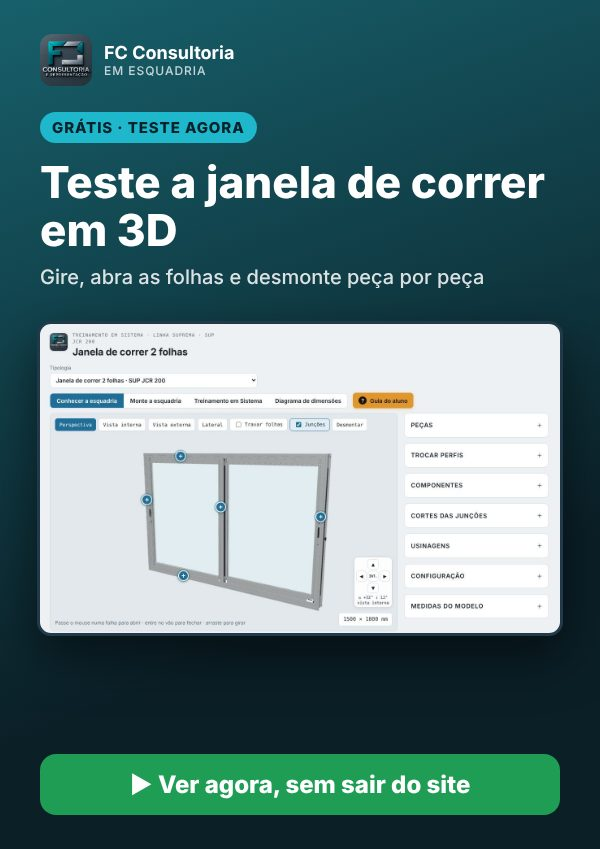
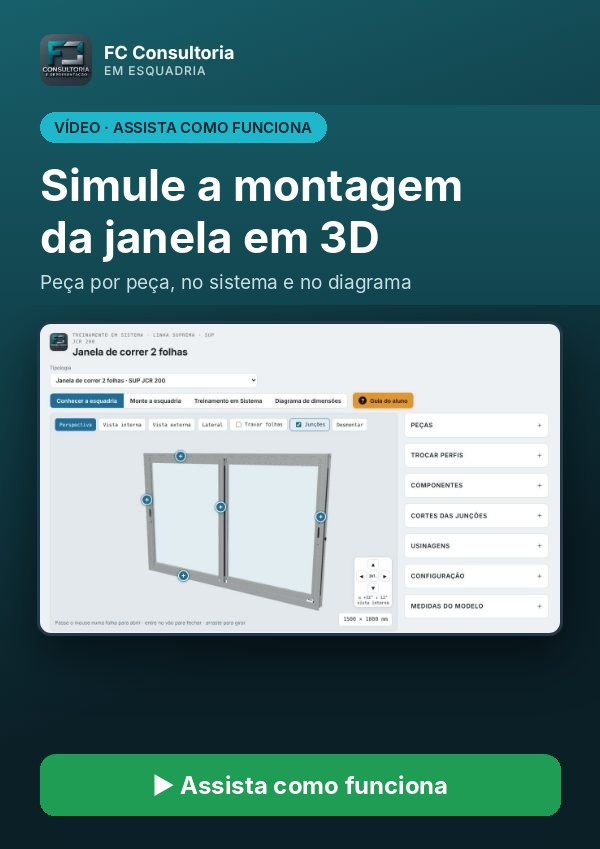
Site: revisao geral (sem nomes de sistemas, sem teste aberto, sem duplicados)
Claude-Session: https://claude.ai/code/session_01BG5fcFynEoiLLZNdsZN5iV

Changed region(s): [[0.06, 0.1225, 0.9, 0.3675], [0.21, 0.8881, 0.78, 0.9494], [0.9, 0.9494, 0.93, 0.98]]

diff --git a/index.html b/index.html
@@ -146,7 +146,7 @@ footer{padding:28px 0 90px;color:var(--tm);font-size:13.5px}footer .w{display:fl
  <div>
   <span class="eb">Implantação de preços em sistemas de esquadrias · Sinop-MT</span>
   <h1>Com dificuldade para alimentar o sistema? <em>Chame a FC</em>.</h1>
-  <p class="lead">A FC Consultoria é especializada em <b>implantar os preços de custo nos sistemas de cálculo de esquadrias disponíveis no mercado</b>, como WVetro e CEM. Cadastramos perfis, componentes e vidros, ajustamos a formação do preço de venda e orientamos a sua equipe, on-line ou presencial.</p>
+  <p class="lead">A FC Consultoria é especializada em <b>implantar os preços de custo nos sistemas de cálculo de esquadrias disponíveis no mercado</b>. Cadastramos perfis, componentes e vidros, ajustamos a formação do preço de venda e orientamos a sua equipe, on-line ou presencial.</p>
   <div class="cta"><a class="btn wz" href="https://wa.me/5566999867984?text=Ol%C3%A1%20Fernando%2C%20estou%20com%20dificuldade%20para%20alimentar%20o%20sistema%20e%20quero%20ajuda%20na%20implanta%C3%A7%C3%A3o%20dos%20pre%C3%A7os." target="_blank" rel="noopener">💬 Quero ajuda na implantação</a><a class="btn cy" href="#demo">🧊 Simule a montagem da janela na plataforma 3D</a></div>
   <p style="margin:14px 0 0;font-size:13px;line-height:1.5;color:#8fa6b2;max-width:520px">Os resultados dependem da atualização dos preços dos fornecedores e do uso do sistema pela equipe.</p>
  </div>
@@ -212,14 +212,14 @@ footer{padding:28px 0 90px;color:var(--tm);font-size:13.5px}footer .w{display:fl
    <li><i>🌬</i><div><b>Diagrama de dimensões</b><br><span>Pressão de vento e tamanho máximo de cada mão de amigo.</span></div></li>
    <li><i>📈</i><div><b>Relatório para o gestor</b><br><span>Uso, acertos e pontos a melhorar de cada colaborador.</span></div></li>
   </ul>
-  <div class="trb" style="align-items:center"><p style="margin:0;font:600 17px var(--f-d);width:100%">Quer conhecer por dentro? Peça um acesso, nem que seja só para conhecer. A FC libera e te explica como usar.</p><a class="btn cy" href="#" onclick="if(window.FCRC){event.preventDefault();FCRC.abrir('Olá! Quero um acesso ao FC Mostruário 3D para conhecer. Minha empresa e cidade: ');}else{this.href='https://wa.me/5566999867984';this.target='_blank';}">💬 Pedir acesso para conhecer</a><a class="btn gh" href="https://wa.me/5566999867984?text=Ol%C3%A1%20Fernando%2C%20quero%20um%20acesso%20ao%20FC%20Mostru%C3%A1rio%203D%20para%20conhecer." target="_blank" rel="noopener">WhatsApp (66) 9 9986-7984</a></div></div>
+</div>
   <div class="shots"><img class="s1" src="img/02-conhecer.jpg" alt="Tela do Mostruário 3D: janela de correr em 3D" loading="lazy"><img class="s2" src="img/14-diagrama.jpg" alt="Diagrama de dimensões com o vento" loading="lazy"></div>
  </div>
  <div class="demo" id="demo">
   <div class="dhd"><div><span class="chip">VÍDEO</span><h3>Assista como funciona: janela de correr 2 folhas em 3D</h3><p>Veja a montagem peça por peça, o lançamento do pedido no sistema e o diagrama de dimensões. Gostou? Entre em contato.</p></div></div>
   <div class="vtabs" role="tablist"><button type="button" class="on" data-v="tut_monte">🧩 Montagem peça por peça</button><button type="button" data-v="tut_sistema">💻 Lançamento no sistema</button><button type="button" data-v="tut_diagrama">📐 Diagrama de dimensões</button></div>
   <div class="dbox" id="dbox"><video id="dvid" src="vid/tut_monte.mp4" poster="img/02-conhecer.jpg" controls playsinline muted preload="none"></video><button type="button" id="dplay">▶ Assista como funciona</button></div>
-  <div class="vcta"><b>Gostou? Entre em contato e peça um acesso para conhecer.</b><a class="btn cy" href="#" data-chatv>💬 Falar com a FC</a><a class="btn gh" href="https://wa.me/5566999867984?text=Ol%C3%A1%20Fernando%2C%20assisti%20ao%20v%C3%ADdeo%20do%20FC%20Mostru%C3%A1rio%203D%20e%20quero%20um%20acesso%20para%20conhecer." target="_blank" rel="noopener">WhatsApp (66) 9 9986-7984</a></div>
+  <div class="vcta"><b>Gostou? Peça um acesso, nem que seja só para conhecer. A FC libera e te explica como usar.</b><a class="btn cy" href="#" data-chatv>💬 Pedir acesso para conhecer</a><a class="btn gh" href="https://wa.me/5566999867984?text=Ol%C3%A1%20Fernando%2C%20assisti%20ao%20v%C3%ADdeo%20do%20FC%20Mostru%C3%A1rio%203D%20e%20quero%20um%20acesso%20para%20conhecer." target="_blank" rel="noopener">WhatsApp (66) 9 9986-7984</a></div>
   <p class="dnote">O vídeo mostra 1 tipologia. O Mostruário completo tem 16 tipologias, desafios, orientação em sistema, diagrama de dimensões e o Monte sua Casa 3D.</p><p class="dnote">📘 <b>Fonte técnica:</b> conteúdo baseado nos catálogos técnicos oficiais das linhas Suprema e Gold (Alcoa). Os usuários têm os catálogos para baixar dentro do Mostruário. Medidas e pesos são demonstrativos: confirme sempre com o seu fornecedor. Marcas pertencem aos seus titulares.</p>
  </div>
 </div></section>
@@ -265,7 +265,7 @@ footer{padding:28px 0 90px;color:var(--tm);font-size:13.5px}footer .w{display:fl
  <div class="cl"><a href="https://wa.me/5566999867984?text=Ol%C3%A1%20Fernando%2C%20vim%20pelo%20site%20da%20FC." target="_blank" rel="noopener">💬 WhatsApp · (66) 9 9986-7984</a><a href="https://instagram.com/fc__consultoria" target="_blank" rel="noopener">📷 Instagram · @fc__consultoria</a><a href="mailto:FCconsultoria25@hotmail.com">✉ FCconsultoria25@hotmail.com</a><a href="https://fc-consultoria.github.io/treinamento/">🧊 FC Mostruário 3D · área do cliente</a></div>
 </div></div></section>
 
-<footer><div class="w" style="font-size:12px;opacity:.6;margin-bottom:6px">Contamos as visitas de forma anônima, sem cookies, para melhorar o site.</div><div class="w"><span>FC Consultoria em Esquadria · FC Desenvolvimento de Projetos de Compra e Venda LTDA · CNPJ 52.985.682/0001-32</span><span>Sinop-MT</span></div><div class="w" style="font-size:12px;opacity:.65;margin-top:6px">Suprema, Gold, WVetro e CEM são marcas de seus respectivos titulares, citadas apenas para fins de orientação técnica. A FC Consultoria não tem vínculo comercial com esses fabricantes e desenvolvedores.</div></footer>
+<footer><div class="w" style="font-size:12px;opacity:.6;margin-bottom:6px">Contamos as visitas de forma anônima, sem cookies, para melhorar o site.</div><div class="w"><span>FC Consultoria em Esquadria · FC Desenvolvimento de Projetos de Compra e Venda LTDA · CNPJ 52.985.682/0001-32</span><span>Sinop-MT</span></div><div class="w" style="font-size:12px;opacity:.65;margin-top:6px">Suprema e Gold são marcas de seus respectivos titulares, citadas apenas para fins de orientação técnica. A FC Consultoria não tem vínculo comercial com esses fabricantes e desenvolvedores.</div></footer>
 <noscript><a class="wfix" href="https://wa.me/5566999867984?text=Ol%C3%A1%20Fernando%2C%20vim%20pelo%20site%20da%20FC." target="_blank" rel="noopener" aria-label="WhatsApp da FC">💬</a></noscript>
 <script src="https://fc-consultoria.github.io/treinamento/mapa.js?v=1792037768"></script>
 <script>
@@ -340,5 +340,5 @@ function fcConfete(){if(matchMedia('(prefers-reduced-motion: reduce)').matches)r
   mostrar('impl-'+d.ultima,'Mais uma implantação de preços concluída pela FC!','Linhas alimentadas, conferidas e com margem ajustada no sistema do cliente.',true,true,null);
  }catch(_){}})();
 document.getElementById('acDemo').addEventListener('click',()=>{try{const s=sessionStorage.getItem('fc_s')||'x';fetch('https://cpkjphodruyxfouirhpd.supabase.co/rest/v1/rpc/site_hit',{method:'POST',keepalive:true,headers:{apikey:'sb_publishable_d0HEeWsaqOeZIQKGftlF-Q_B8BUOWWg','Content-Type':'application/json'},body:JSON.stringify({p_s:s,p_pag:'site',p_ev:'acomp_demo',p_o:sessionStorage.getItem('fc_o')||'direto',p_ref:''})});}catch(_){}});
-</script><script src="rep_chat.js?v=1792043132"></script><script src="teatro.js?v=3"></script><script src="vitrine.js?v=4"></script><script>if(window.FCRC)FCRC.init({pag:"site",marca:"FC Consultoria",cor:"#1f9d55",logo:"img/logo-fc-160.jpg",rotulo:"💬 Fale com a FC",sub:"Consultoria, Mostruário 3D e representação · respondemos por aqui",ph:"Escreva sua dúvida ou pedido",ola:"Olá! Pode falar sobre qualquer assunto: consultoria, implantação de sistema, Mostruário 3D ou orçamento de produtos."});</script><script>document.addEventListener("click",e=>{const a=e.target.closest("[data-orc]");if(!a||!window.FCRC)return;e.preventDefault();FCRC.abrir("Quero orçamento de "+a.dataset.orc+". Produto e quantidade: ");});</script>
+</script><script src="rep_chat.js?v=1792043132"></script><script src="teatro.js?v=4"></script><script src="vitrine.js?v=4"></script><script>if(window.FCRC)FCRC.init({pag:"site",marca:"FC Consultoria",cor:"#1f9d55",logo:"img/logo-fc-160.jpg",rotulo:"💬 Fale com a FC",sub:"Consultoria, Mostruário 3D e representação · respondemos por aqui",ph:"Escreva sua dúvida ou pedido",ola:"Olá! Pode falar sobre qualquer assunto: consultoria, implantação de sistema, Mostruário 3D ou orçamento de produtos."});</script><script>document.addEventListener("click",e=>{const a=e.target.closest("[data-orc]");if(!a||!window.FCRC)return;e.preventDefault();FCRC.abrir("Quero orçamento de "+a.dataset.orc+". Produto e quantidade: ");});</script>
 </body></html>

diff --git a/teatro.js b/teatro.js
@@ -22,16 +22,17 @@
   function esc(e){if(e.key==='Escape')fechar();}
   function abrir(qual){fechar();hit(qual);const m=document.createElement('div');m.id='thM';
     const acomp=qual==='acomp';
-    m.innerHTML=`<div class="thb">${acomp?`<div class="thf"><iframe src="${ACOMP}" title="Demonstração do acompanhamento da implantação" allow="clipboard-write"></iframe></div>`:`<div class="thw"><iframe src="${TB}demo.html" title="Demonstração Orientativo FC 3D"></iframe></div>`}
+    m.innerHTML=`<div class="thb">${acomp?`<div class="thf"><iframe src="${ACOMP}" title="Demonstração do acompanhamento da implantação" allow="clipboard-write"></iframe></div>`:`<div class="thw" style="background:#0b141a"><video id="thV" src="${TB}vid/tut_monte.mp4" controls autoplay playsinline style="width:100%;height:100%;object-fit:contain;display:block"></video></div>`}
       <button type="button" class="thx" aria-label="Fechar">✕</button>
-      <div class="thl">${acomp?'Demonstração com cliente fictício · os dias avançam sozinhos':'Gire, abra as folhas e desmonte peça por peça'} · <a href="#" data-thx>fechar</a></div></div>`;
+      <div class="thl">${acomp?'Demonstração com cliente fictício · os dias avançam sozinhos':'Assista como funciona · gostou? <a href="#" data-thc style="color:#7fe0a5">💬 Peça um acesso para conhecer</a>'} · <a href="#" data-thx>fechar</a></div></div>`;
     document.body.appendChild(m);document.documentElement.style.overflow='hidden';requestAnimationFrame(()=>requestAnimationFrame(()=>m.classList.add('on')));
-    m.addEventListener('click',e=>{if(e.target===m||e.target.closest('.thx')||e.target.closest('[data-thx]')){e.preventDefault();fechar();}});document.addEventListener('keydown',esc);}
+    if(!acomp){const V=m.querySelector('#thV'),VS=['tut_monte','tut_sistema','tut_diagrama'];let vi=0;V.addEventListener('ended',()=>{vi++;if(vi<VS.length){V.src=TB+'vid/'+VS[vi]+'.mp4';V.play().catch(()=>{});}});V.play().catch(()=>{V.muted=true;V.play().catch(()=>{});});}
+    m.addEventListener('click',e=>{if(e.target.closest('[data-thc]')){e.preventDefault();fechar();if(window.FCRC)FCRC.abrir('Olá! Assisti ao vídeo do FC Mostruário 3D e quero um acesso para conhecer. Minha empresa e cidade: ');else open('https://wa.me/5566999867984','_blank');return;}if(e.target===m||e.target.closest('.thx')||e.target.closest('[data-thx]')){e.preventDefault();fechar();}});document.addEventListener('keydown',esc);}
   window.FCTH={abrir,fechar};
   function ligar(){
     const d=document.getElementById('acDemo');if(d){d.textContent='▶ Ver funcionando aqui';d.removeAttribute('target');d.href='#acompanhamento';d.classList.add('thpulse');d.addEventListener('click',e=>{e.preventDefault();abrir('acomp');});}
     const f=document.querySelector('.fone');if(f&&!document.getElementById('thBig')){const o=document.createElement('div');o.id='thBig';o.style.cssText='position:absolute;left:0;right:0;bottom:-96px;display:flex;justify-content:center';o.innerHTML='<button type="button" class="thz thpulse">▶ Ver em tela grande</button>';o.querySelector('button').onclick=()=>abrir('acomp');f.appendChild(o);f.style.marginBottom='100px';}
-    const p=document.getElementById('dplay');if(p){p.onclick=e=>{e.preventDefault();abrir('3d');};p.classList.add('thpulse');}
+    const p=document.getElementById('dplay');if(p)p.classList.add('thpulse');
     document.querySelectorAll('a[href="#demo"]').forEach(a=>a.addEventListener('click',e=>{e.preventDefault();abrir('3d');}));
     if(location.hash==='#ver-acomp')abrir('acomp');if(location.hash==='#ver-3d')abrir('3d');}
   if(document.readyState==='loading')document.addEventListener('DOMContentLoaded',ligar);else ligar();

diff --git a/video/index.html b/video/index.html
@@ -44,7 +44,6 @@ table{width:100%;border-collapse:collapse;font-size:14.5px}td,th{border-bottom:1
 
 <h2>Links</h2>
 <ul><li>Site da FC: <a href="https://fc-consultoria.github.io/" style="color:var(--ac)">fc-consultoria.github.io</a></li>
-<li>Demonstração grátis da janela 3D: <a href="https://fc-consultoria.github.io/demo.html" style="color:var(--ac)">fc-consultoria.github.io/demo.html</a></li>
 <li>Instagram: @fc__consultoria · WhatsApp: (66) 9 9986-7984</li></ul>
 <p class="mut">Pedido para quem for sugerir melhorias: avalie o ritmo (48 s), a ordem das cenas, os textos, a chamada final e sugira legenda/hashtags para Instagram e Status do WhatsApp.</p>
 </div></body></html>
